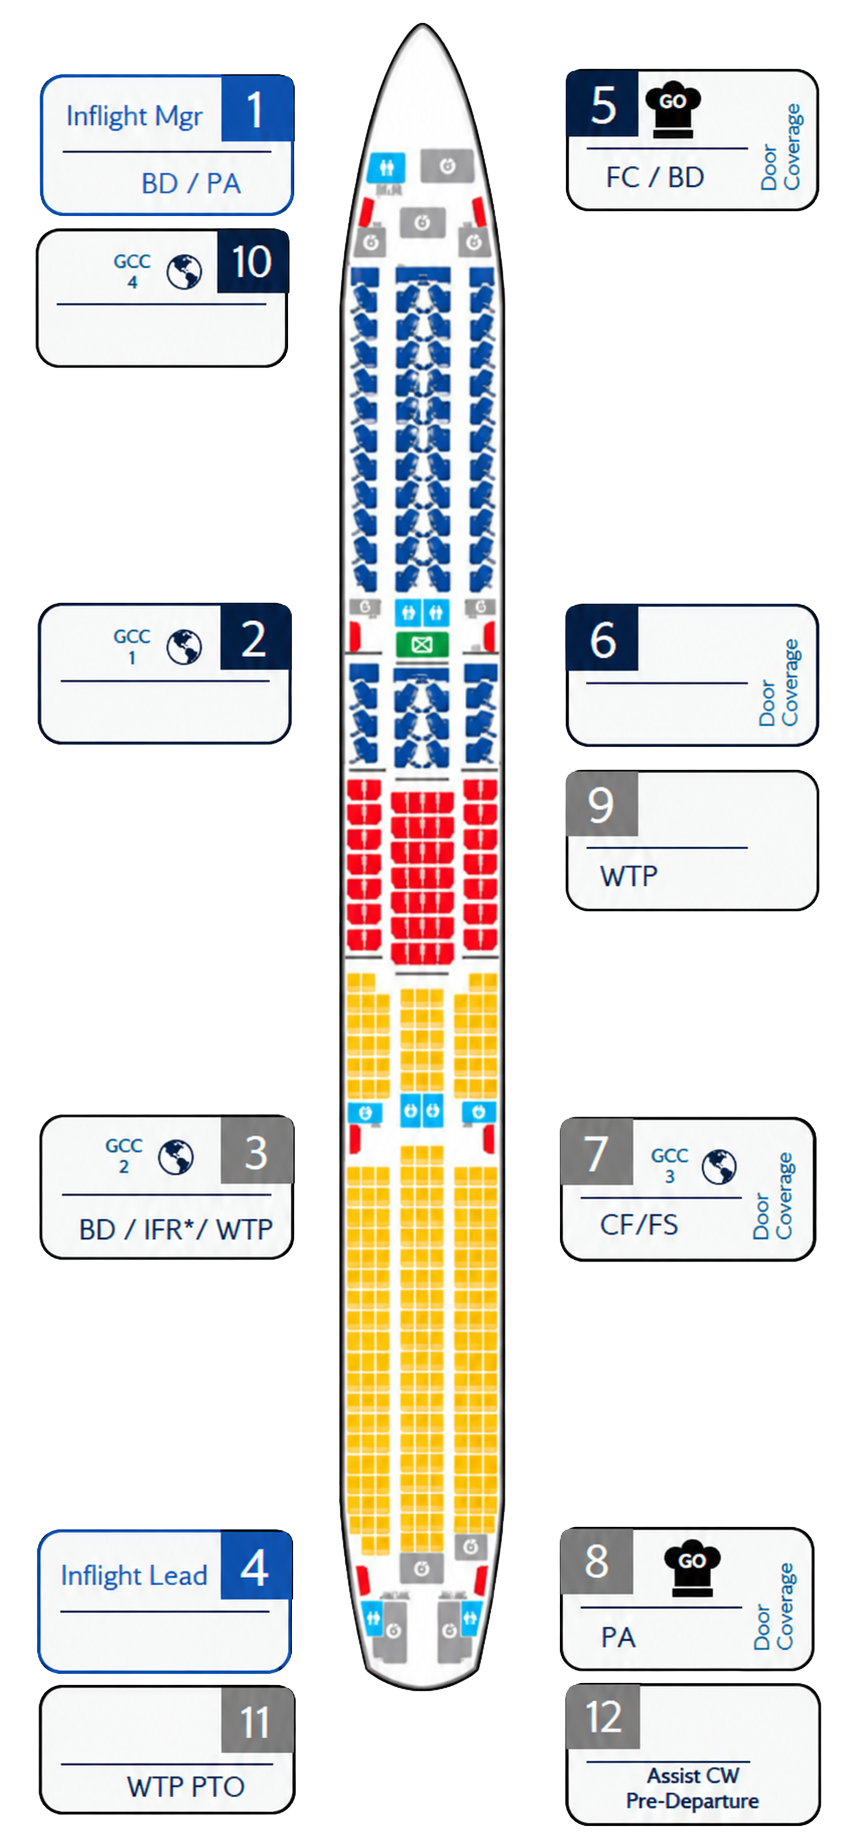
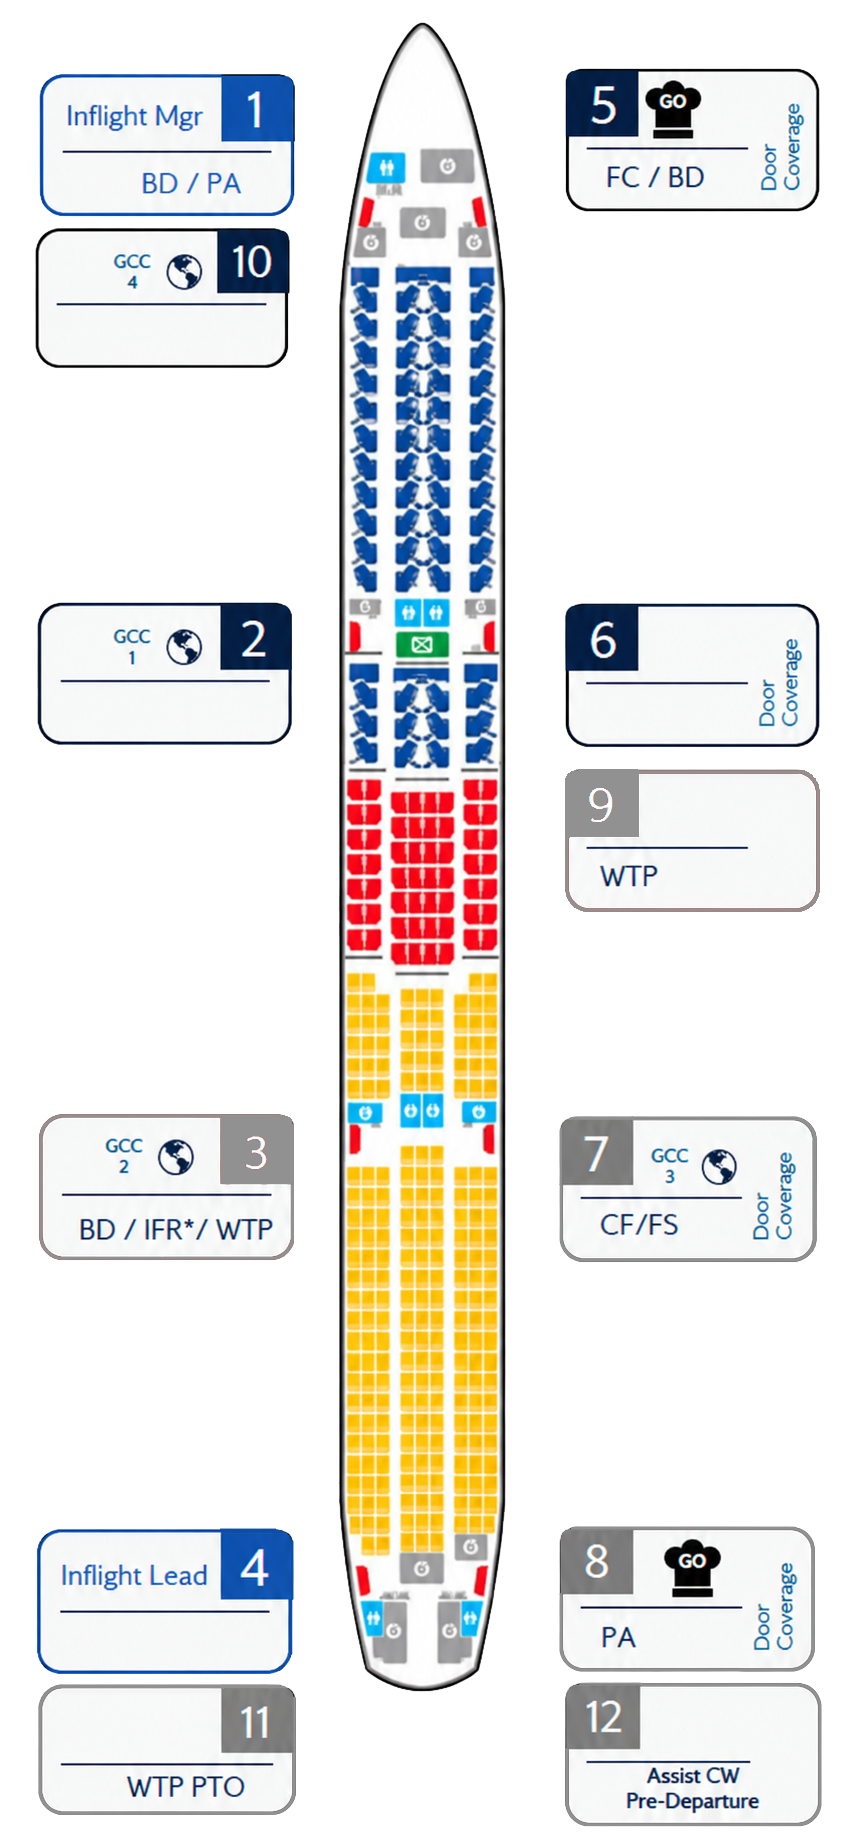
All Aircraft Diagrams

diff --git a/briefing/index.html b/briefing/index.html
@@ -215,7 +215,7 @@
   </main>
   <script>
 
-const BASE_DATA_PATH="../data",SVG_NS="http://www.w3.org/2000/svg",STATE={activeCode:null,activeMeta:null,activeData:null,activePosition:null};
+const BASE_DATA_PATH="../data",SVG_NS="http://www.w3.org/2000/svg",STATE={activeCode:null,activeMeta:null,activeData:null,activePosition:null,activeDeck:null};
 function loadScript(src){return new Promise((resolve,reject)=>{const existing=document.querySelector(`script[data-load-src="${src}"]`);if(existing){if(existing.dataset.loaded==="true"){resolve();return}existing.addEventListener("load",()=>resolve(),{once:true});existing.addEventListener("error",()=>reject(new Error(`Failed loading ${src}`)),{once:true});return}const s=document.createElement("script");s.src=src;s.dataset.loadSrc=src;s.async=false;s.addEventListener("load",()=>{s.dataset.loaded="true";resolve()},{once:true});s.addEventListener("error",()=>reject(new Error(`Failed loading ${src}`)),{once:true});document.head.appendChild(s)})}
 const esc=v=>String(v).replaceAll("&","&amp;").replaceAll("<","&lt;").replaceAll(">","&gt;").replaceAll('"',"&quot;").replaceAll("'","&#039;");
 const svgEl=(tag,attrs={})=>{const el=document.createElementNS(SVG_NS,tag);Object.entries(attrs).forEach(([k,v])=>el.setAttribute(k,v));return el};
@@ -223,14 +223,14 @@ function expandAcronym(code){const groups=globalThis.ACRONYMS||{};for(const grou
 function locationTypeLabel(type){switch((type||"").toLowerCase()){case"seat":return"Under crew seat";case"area":return"In assigned area";case"fcrc":return expandAcronym("FCRC");case"ccrc":return expandAcronym("CCRC");case"ofcr":return expandAcronym("OFCR");case"ofar":return expandAcronym("OFAR");default:return""}}
 function restSummary(meta){if(!meta.includesRestFacilities)return"No crew rest facilities";return[meta.flightCrewRest,meta.cabinCrewRest].filter(Boolean).map(expandAcronym).join(" + ")}
 function bootError(message){document.getElementById("positionContent").innerHTML=`<div class="error-box"><strong>Aircraft data not loaded.</strong><br>${esc(message)}</div>`}
-async function boot(){try{await loadScript(`${BASE_DATA_PATH}/acronyms.js`);await loadScript(`${BASE_DATA_PATH}/equipment.js`);await loadScript(`${BASE_DATA_PATH}/aircraft.js`);await loadScript(`${BASE_DATA_PATH}/aircraft-registrations.js`);if(!globalThis.AIRCRAFT||!globalThis.AIRCRAFT_ORDER)throw new Error(`Loaded ${BASE_DATA_PATH}/aircraft.js but AIRCRAFT or AIRCRAFT_ORDER is still missing.`);initApp()}catch(err){bootError(err.message)}}
+async function boot(){try{await loadScript(`${BASE_DATA_PATH}/acronyms.js`);await loadScript(`${BASE_DATA_PATH}/equipment.js`);await loadScript(`${BASE_DATA_PATH}/aircraft.js`);await loadScript(`${BASE_DATA_PATH}/aircraft-registrations.js`);await loadScript(`${BASE_DATA_PATH}/aircraft-diagrams.js`);if(!globalThis.AIRCRAFT||!globalThis.AIRCRAFT_ORDER)throw new Error(`Loaded ${BASE_DATA_PATH}/aircraft.js but AIRCRAFT or AIRCRAFT_ORDER is still missing.`);initApp()}catch(err){bootError(err.message)}}
 function initApp(){
 const pageTitle=document.getElementById("pageTitle"),pageIntro=document.getElementById("pageIntro"),aircraftButtonGrid=document.getElementById("aircraftButtonGrid"),aircraftMenuLabel=document.getElementById("aircraftMenuLabel"),aircraftMenuBack=document.getElementById("aircraftMenuBack"),aircraftHeaderTitle=document.getElementById("aircraftHeaderTitle"),aircraftHeaderSub=document.getElementById("aircraftHeaderSub"),summaryStats=document.getElementById("summaryStats"),aircraftSvg=document.getElementById("aircraftSvg"),seatLayer=document.getElementById("seatLayer"),aircraftMetaContent=document.getElementById("aircraftMetaContent"),positionContent=document.getElementById("positionContent"),positionPanel=document.getElementById("positionPanel"),selectorSummary=document.getElementById("selectorSummary"),aorCaption=document.getElementById("aorCaption"),registrationLookup=document.getElementById("registrationLookup"),registrationInput=document.getElementById("registrationInput");
 const css=n=>getComputedStyle(document.documentElement).getPropertyValue(n).trim(),ZONE_STYLES={F:{name:"First",color:css("--gold")},CW:{name:"Club World",color:css("--cw")},WTP:{name:"World Traveller Plus",color:css("--wtp")},WT:{name:"World Traveller",color:css("--wt")}};
 const clearDiagram=()=>{aircraftSvg.innerHTML="";aircraftSvg.setAttribute("viewBox","0 0 420 980");aircraftSvg.parentElement.classList.remove("image-diagram");aircraftSvg.parentElement.style.aspectRatio="";seatLayer.innerHTML="";aorCaption.textContent=""};
 const AIRCRAFT_FAMILIES=[
   {label:"A350",direct:{label:"351",code:"351"}},
-  {label:"A380",direct:{label:"38A",code:"38A"}},
+  {label:"A380",options:[{label:"38A",code:"38A"},{label:"38T",code:"38T"}]},
   {label:"B777",options:["77S","77T","77M","77L","77H"].map(code=>({label:code,code}))},
   {label:"B787",options:["78E","789","78N","781"].map(code=>({label:code,code}))},
   {label:"Shorthaul Airbus",options:[
@@ -266,6 +266,7 @@ function makeAircraftButton(label,{family=null,option=null,direct=false}={}){
   btn.addEventListener("click",()=>{
     if(direct){selectAircraft(direct.code);return}
     if(option?.options){renderFamilyOptions(option,family);return}
+    if(option&&["38A","38T"].includes(option.code)){renderDeckOptions(option.code);return}
     if(option){selectAircraft(option.code,option.displayLabel||option.label);return}
     renderFamilyOptions(family);
   });
@@ -282,8 +283,16 @@ function renderFamilyOptions(family,parentFamily=null){
   family.options.forEach(option=>aircraftButtonGrid.appendChild(makeAircraftButton(option.label,{family,option})));
   selectorSummary.textContent="Select an aircraft configuration to load its briefing.";updateButtons();
 }
+function renderDeckOptions(code){
+  const family=AIRCRAFT_FAMILIES.find(item=>item.label==="A380");
+  aircraftMenuLabel.textContent=`${code} deck`;aircraftMenuBack.hidden=false;aircraftMenuBack.textContent="Back to A380 options";aircraftMenuBack.onclick=()=>renderFamilyOptions(family);aircraftButtonGrid.innerHTML="";
+  [{key:"MD",label:"Main Deck"},{key:"UD",label:"Upper Deck"}].forEach(deck=>{
+    const button=document.createElement("button");button.type="button";button.className="aircraft-code-btn";button.textContent=deck.label;button.dataset.aircraftCode=code;button.dataset.aircraftLabel=`${code} ${deck.key}`;button.addEventListener("click",()=>selectAircraft(code,null,deck.key));aircraftButtonGrid.appendChild(button);
+  });
+  selectorSummary.textContent=`Select Main Deck or Upper Deck for ${code}.`;updateButtons();
+}
 function returnToBriefingStart(){
-  STATE.activeCode=null;STATE.activeSelectorLabel=null;STATE.activeMeta=null;STATE.activeData=null;STATE.activePosition=null;
+  STATE.activeCode=null;STATE.activeSelectorLabel=null;STATE.activeMeta=null;STATE.activeData=null;STATE.activePosition=null;STATE.activeDeck=null;
   registrationLookup.hidden=true;registrationInput.value="";
   document.querySelector(".briefing-shell").classList.remove("has-aircraft");
   document.querySelector(".hero-copy").hidden=true;
@@ -300,13 +309,14 @@ function returnToBriefingStart(){
 function updateButtons(){[...aircraftButtonGrid.children].forEach(btn=>btn.classList.toggle("active",btn.dataset.aircraftCode===STATE.activeCode&&btn.dataset.aircraftLabel===STATE.activeSelectorLabel))}
 function setLoading(meta){document.querySelector(".briefing-shell").classList.add("has-aircraft");document.querySelector(".hero-copy").hidden=false;document.querySelector(".layout").hidden=false;positionPanel.hidden=true;registrationLookup.hidden=false;registrationInput.value="";const exampleRegistration=Object.values(globalThis.AIRCRAFT_REGISTRATIONS||{}).find(record=>record.airfile===meta.code)?.registration;registrationInput.placeholder=exampleRegistration?`i.e. ${exampleRegistration}`:"Enter aircraft registration";pageTitle.textContent="Briefing & AORs";selectorSummary.textContent=`${meta.selectorLabel} · ${meta.fullName} · ${meta.configName}`;aircraftHeaderTitle.textContent=`${meta.selectorLabel} · ${meta.fullName}`;aircraftHeaderSub.textContent="Loading aircraft data...";summaryStats.innerHTML=`<div class="meta-stat"><strong>—</strong><span>Legal Minimum Crew</span></div><div class="meta-stat"><strong>—</strong><span>Standard Crew Compliment</span></div>`;aircraftMetaContent.innerHTML=`<div class="loading"><span class="dot"></span>Loading aircraft summary...</div>`;positionContent.innerHTML=`<div class="loading"><span class="dot"></span>Loading aircraft briefing...</div>`;clearDiagram()}
 
-async function loadDataset(code){const key=`AOR_${code}`;
-if(globalThis[key])return globalThis[key];
+function applyAircraftDiagram(code,data,deck){const configured=globalThis.AIRCRAFT_DIAGRAMS?.[code];const diagram=configured?.decks?configured.decks[deck]:configured;return diagram?{...data,diagram}:data}
+async function loadDataset(code,deck=null){const key=`AOR_${code}`;
+if(globalThis[key])return applyAircraftDiagram(code,globalThis[key],deck);
 const meta=globalThis.AIRCRAFT[code];
 const configuredPath=meta?.dataPath;const path=configuredPath?(configuredPath.startsWith("data/")?`${BASE_DATA_PATH}/${configuredPath.slice(5)}`:configuredPath):`${BASE_DATA_PATH}/aircraft/${code}.js`;
 await loadScript(path);
 if(!globalThis[key])throw new Error(`Loaded ${path} but ${key} was not created.`);
-return globalThis[key]
+return applyAircraftDiagram(code,globalThis[key],deck)
 }
 
 function syncUrl(code){const url=new URL(window.location.href);url.searchParams.set("code",code);window.history.replaceState({},"",url.toString())}
@@ -411,20 +421,23 @@ function renderAircraft(meta,data){
   pageTitle.textContent="Briefing & AORs";
   selectorSummary.textContent=`${meta.selectorLabel} · ${meta.fullName} · ${meta.configName}`;
   aircraftHeaderTitle.textContent=`${meta.selectorLabel} · ${meta.fullName}`;
-  aircraftHeaderSub.textContent=data.diagram
-    ?"Select a numbered crew position to view its briefing and AOR"
+  aircraftHeaderSub.textContent=data.diagram&&Object.keys(data.diagram.positionPanels||{}).length
+    ?`Select a numbered crew position to view its briefing and AOR${meta.deck?` · ${meta.deck==="MD"?"Main Deck":"Upper Deck"}`:""}`
+    :data.diagram?`${meta.deck?`${meta.deck==="MD"?"Main Deck":"Upper Deck"} aircraft layout`:"Aircraft layout"}`
     :`${meta.selectorSubLabel}${meta.includesRestFacilities?` · ${restSummary(meta)}`:" · No crew rest facilities"}`;
   const crew=data?.crew||meta.crew||{};
-  summaryStats.innerHTML=`<div class="meta-stat"><strong>${esc(String(crew.legalMinimum??"—"))}</strong><span>Legal Minimum Crew</span></div><div class="meta-stat"><strong>${esc(String(crew.standardCrewCompliment??"—"))}</strong><span>Standard Crew Compliment</span></div>`;
+  const hasCrewSummary=crew.legalMinimum!=null||crew.standardCrewCompliment!=null;
+  summaryStats.innerHTML=hasCrewSummary?`<div class="meta-stat"><strong>${esc(String(crew.legalMinimum??"—"))}</strong><span>Legal Minimum Crew</span></div><div class="meta-stat"><strong>${esc(String(crew.standardCrewCompliment??"—"))}</strong><span>Standard Crew Compliment</span></div>`:"";
   const cabinCodes=new Set(meta.classes||[]);
   const cabinItems=CABIN_DISPLAY_ORDER.filter(cabin=>cabinCodes.has(cabin.code)).map(cabin=>cabin.name);
   const seatBreakdown=meta.seatBreakdown||{};
   const totalSeatCount=meta.totalSeats;
   const seatItems=[...(totalSeatCount!=null?[`Total Seats - ${totalSeatCount}`]:[]),...CABIN_DISPLAY_ORDER.filter(cabin=>cabinCodes.has(cabin.code)&&seatBreakdown[cabin.seatKey]!=null).map(cabin=>`${cabin.breakdownCode} - ${seatBreakdown[cabin.seatKey]}`)];
   const spareSeats=(crew.spareCrewSeats||[]).map(seat=>[seat.seat,seat.descriptor,seat.facing].filter(Boolean).join(" "));
+  const crewCards=crew.legalMinimum!=null?`<div class="small-card"><strong>Required Crew Seats</strong><span>${esc((crew.requiredSeats||[]).join(", "))}</span></div><div class="small-card"><strong>Spare Seat</strong>${summaryList(spareSeats)}</div>`:"";
   const restCodes=meta.restTypes?.length?meta.restTypes:[meta.flightCrewRest,meta.cabinCrewRest].filter(Boolean);
   const restAreas=restCodes.map(code=>REST_AREA_NAMES[code]||expandAcronym(code));
-  aircraftMetaContent.innerHTML=`<div id="registrationNotes"></div><div class="grid-2"><div class="small-card"><strong>Aircraft</strong><span>${esc(meta.manufacturer)} - ${esc(meta.fullName)}<br>${esc(meta.configName)}</span></div><div class="small-card"><strong>Cabins</strong>${summaryList(cabinItems,"Cabin details not listed")}</div><div class="small-card"><strong>Cabin Breakdown</strong>${summaryList(seatItems,"Seat breakdown not listed")}</div><div class="small-card"><strong>Required Crew Seats</strong><span>${esc((crew.requiredSeats||[]).join(", ")||"—")}</span></div><div class="small-card"><strong>Spare Seat</strong>${summaryList(spareSeats)}</div><div class="small-card"><strong>Crew Rest</strong>${summaryList(restAreas,"No crew rest areas listed")}</div><div class="small-card summary-sep-equipment"><strong>SEP Equipment Summary</strong></div></div>`;
+  aircraftMetaContent.innerHTML=`<div id="registrationNotes"></div><div class="grid-2"><div class="small-card"><strong>Aircraft</strong><span>${esc(meta.manufacturer)} - ${esc(meta.fullName)}<br>${esc(meta.configName)}</span></div><div class="small-card"><strong>Cabins</strong>${summaryList(cabinItems,"Cabin details not listed")}</div><div class="small-card"><strong>Cabin Breakdown</strong>${summaryList(seatItems,"Seat breakdown not listed")}</div>${crewCards}<div class="small-card"><strong>Crew Rest</strong>${summaryList(restAreas,"No crew rest areas listed")}</div><div class="small-card summary-sep-equipment"><strong>SEP Equipment Summary</strong></div></div>`;
   updateRegistrationNotes(meta);
   updateSepEquipment(meta);
   if(data.diagram?.image)renderConfiguredDiagram(data);
@@ -434,7 +447,7 @@ function renderAircraft(meta,data){
 function formatBullets(text){if(!text||String(text).trim()==="")return `<p>None</p>`;const parts=String(text).split(",").map(s=>s.trim()).filter(Boolean);if(!parts.length)return `<p>None</p>`;return `<ul>${parts.map(item=>`<li>${esc(item)}</li>`).join("")}</ul>`}
 function setActivePosition(number){const pos=(STATE.activeData?.positions||[]).find(p=>p.number===number);if(!pos)return;STATE.activePosition=pos;positionPanel.hidden=false;const hasAor=!!pos?.aor?.hasAor,doorText=pos.doorResponsibility||"None",restText=pos.rest||"None",serviceCabins=(pos.service?.cabin||[]).map(expandAcronym).join(" · ")||"None";let demo=`<ul><li>Position: None</li><li>Points out: None</li></ul>`;if(pos.demo){const p=pos.demo.position==null?"None":pos.demo.position,pts=pos.demo.pointsOut&&pos.demo.pointsOut.length?pos.demo.pointsOut.join(", "):"None";demo=`<ul><li>Position: ${esc(p)}</li><li>Points out: ${esc(pts)}</li></ul>`}positionContent.innerHTML=`<div class="title-row"><div><h3 class="position-name">${esc(pos.displayTitle||`Position ${pos.number}`)}</h3><div class="subtle">${esc(pos.seating?.full||"Seat not listed")}</div></div><div class="badge">${hasAor?"AOR assigned":"No AOR"}</div></div><div class="pill-row"><div class="pill">Door: ${esc(doorText)}</div><div class="pill">Rest: ${esc(restText)}</div><div class="pill">Cabin: ${esc(serviceCabins)}</div></div><div class="section"><h3>Service Delivery</h3>${formatBullets(pos.service?.summary)}</div><div class="section"><h3>Safety Demo</h3>${demo}</div><div class="section"><h3>Area of Responsibility (AOR)</h3><p>${hasAor?esc(pos.aor.area):"None"}</p></div><div class="section"><h3>Additional Responsibilities</h3>${pos.additionalResponsibilities?.length?`<ul>${pos.additionalResponsibilities.map(item=>`<li>${esc(item)}</li>`).join("")}</ul>`:`<p>None</p>`}</div><div class="section"><h3>Pre-Flight SEP Equipment Checks</h3><div class="chips">${(pos.equipmentChecks||[]).map(item=>{const fullName=globalThis.EQUIPMENT?.[item.code]||item.code,locationName=locationTypeLabel(item.locationType),qty=item.qty&&item.qty>1?`<span class="qty">${item.qty}</span>`:"";return `<button type="button" class="equipment-chip ${esc(item.locationType||"area")}" onclick="window.__toggleEquipmentChip(this)" aria-expanded="false">${qty}<span class="code">${esc(item.code)}</span><span class="full-name">— ${esc(fullName)}</span>${locationName?`<span class="location-name">· ${esc(locationName)}</span>`:""}</button>`}).join("")}</div></div>`;setAorOverlay(pos);setDemoMarker(pos);seatLayer.querySelectorAll(".seat-btn,.position-hotspot").forEach(btn=>{const active=Number(btn.dataset.position)===STATE.activePosition?.number;btn.classList.toggle("active",active);btn.setAttribute("aria-pressed",active?"true":"false")})}
 function showAllPositionsList(){if(!STATE.activeData)return;STATE.activePosition=null;positionPanel.hidden=true;setAorOverlay(null);setDemoMarker(null);seatLayer.querySelectorAll(".seat-btn,.position-hotspot").forEach(btn=>{btn.classList.remove("active");btn.setAttribute("aria-pressed","false")})}
-async function selectAircraft(code,displayLabel=null){const baseMeta=globalThis.AIRCRAFT[code];const meta=baseMeta?(displayLabel?{...baseMeta,selectorLabel:displayLabel,selectorSubLabel:`${displayLabel} · ${baseMeta.fullName}`}:baseMeta):{code,selectorLabel:displayLabel||code,selectorSubLabel:`${displayLabel||code} · Details pending`,fullName:`B787 (${code})`,configName:"Configuration pending",manufacturer:"Boeing",classes:[],includesRestFacilities:null,dataPath:`data/aircraft/${code}.js`};STATE.activeCode=code;STATE.activeSelectorLabel=meta.selectorLabel||code;STATE.activeMeta=meta;STATE.activeData=null;STATE.activePosition=null;updateButtons();setLoading(meta);try{const data=await loadDataset(code);STATE.activeData=data;syncUrl(code);renderAircraft(meta,data)}catch(err){syncUrl(code);renderMissing(meta,err)}}
+async function selectAircraft(code,displayLabel=null,deck=null){const baseMeta=globalThis.AIRCRAFT[code];let meta=baseMeta?(displayLabel?{...baseMeta,selectorLabel:displayLabel,selectorSubLabel:`${displayLabel} · ${baseMeta.fullName}`}:baseMeta):{code,selectorLabel:displayLabel||code,selectorSubLabel:`${displayLabel||code} · Details pending`,fullName:`B787 (${code})`,configName:"Configuration pending",manufacturer:"Boeing",classes:[],includesRestFacilities:null,dataPath:`data/aircraft/${code}.js`};if(deck)meta={...meta,deck,selectorSubLabel:`${meta.selectorSubLabel} · ${deck==="MD"?"Main Deck":"Upper Deck"}`};STATE.activeCode=code;STATE.activeDeck=deck;STATE.activeSelectorLabel=deck?`${code} ${deck}`:meta.selectorLabel||code;STATE.activeMeta=meta;STATE.activeData=null;STATE.activePosition=null;updateButtons();setLoading(meta);try{const data=await loadDataset(code,deck);STATE.activeData=data;syncUrl(code);renderAircraft(meta,data)}catch(err){syncUrl(code);renderMissing(meta,err)}}
 window.__toggleEquipmentChip=function(button){const expanded=button.classList.toggle("expanded");button.setAttribute("aria-expanded",expanded?"true":"false")};window.__openPosition=function(number){setActivePosition(number);document.querySelector(".position-panel")?.scrollIntoView({behavior:"smooth",block:"start"})};
  registrationInput.addEventListener("input",()=>{updateRegistrationNotes(STATE.activeMeta);if(STATE.activeMeta)updateSepEquipment(STATE.activeMeta)});
  renderFamilyMenu();document.addEventListener("click",event=>{if(!STATE.activePosition)return;if(event.target.closest(".position-hotspot,.seat-btn,button,a,input,select,textarea,label"))return;if(event.target!==positionContent&&event.target.closest("#positionContent"))return;showAllPositionsList()})}

diff --git a/data/aircraft-diagrams.js b/data/aircraft-diagrams.js
@@ -1,0 +1,24 @@
+/* Aircraft layout images uploaded to assets/aircraft. */
+globalThis.AIRCRAFT_DIAGRAMS = Object.freeze({
+  "38A": {
+    decks: {
+      MD: { image: "../assets/aircraft/38A%20MD.png", viewBox: { width: 978, height: 2116 } },
+      UD: { image: "../assets/aircraft/38A%20UD.png", viewBox: { width: 978, height: 1824 } }
+    }
+  },
+  "38T": {
+    decks: {
+      MD: { image: "../assets/aircraft/38T%20MD.png", viewBox: { width: 978, height: 2116 } },
+      UD: { image: "../assets/aircraft/38T%20UD.png", viewBox: { width: 978, height: 1824 } }
+    }
+  },
+  "77H": { image: "../assets/aircraft/77H.png", viewBox: { width: 996, height: 2179 } },
+  "77L": { image: "../assets/aircraft/77L.png", viewBox: { width: 977, height: 2143 } },
+  "77M": { image: "../assets/aircraft/77M.png", viewBox: { width: 974, height: 2197 } },
+  "77S": { image: "../assets/aircraft/77S.png", viewBox: { width: 987, height: 2189 } },
+  "77T": { image: "../assets/aircraft/77T.png", viewBox: { width: 987, height: 2276 } },
+  "781": { image: "../assets/aircraft/781.png", viewBox: { width: 976, height: 2091 } },
+  "789": { image: "../assets/aircraft/789.png", viewBox: { width: 1010, height: 2222 } },
+  "78E": { image: "../assets/aircraft/78E.png", viewBox: { width: 1006, height: 2240 } },
+  "78N": { image: "../assets/aircraft/78N.png", viewBox: { width: 1003, height: 2251 } }
+});

diff --git a/data/aircraft/38T.js b/data/aircraft/38T.js
@@ -1,0 +1,5 @@
+globalThis.AOR_38T = {
+  aircraftCode: "38T",
+  importantInfo: { notes: [] },
+  positions: []
+};
